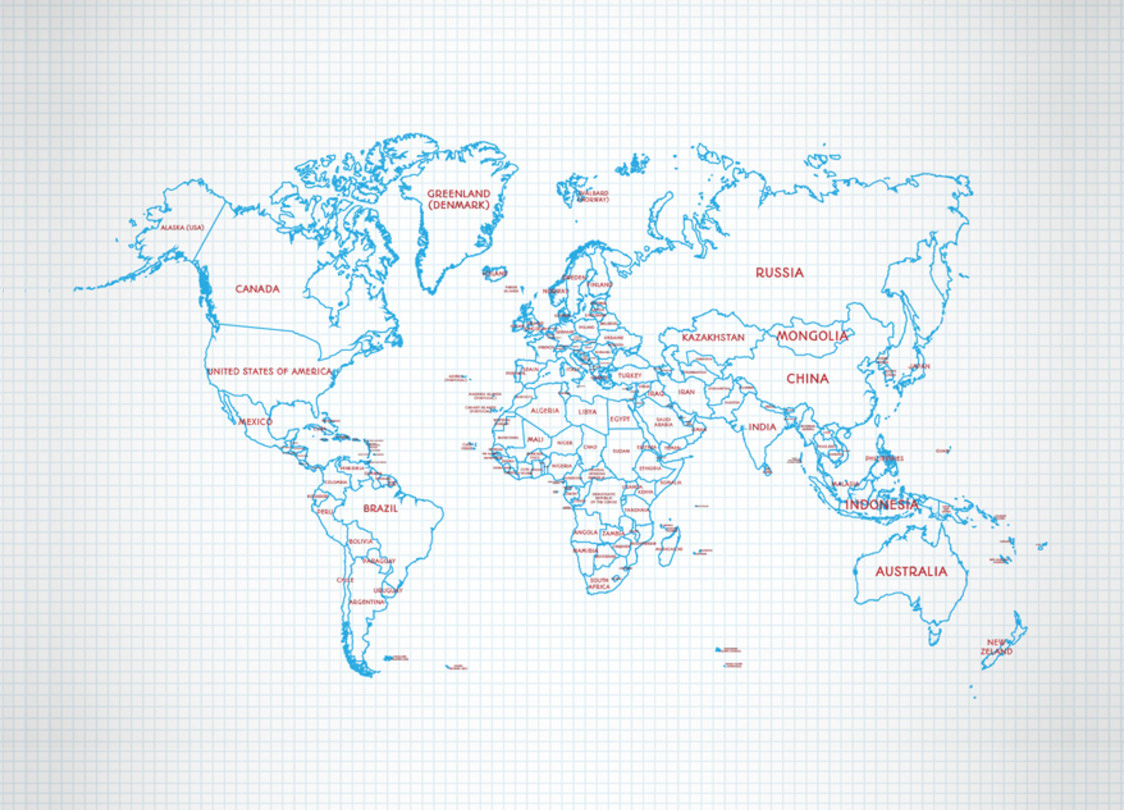
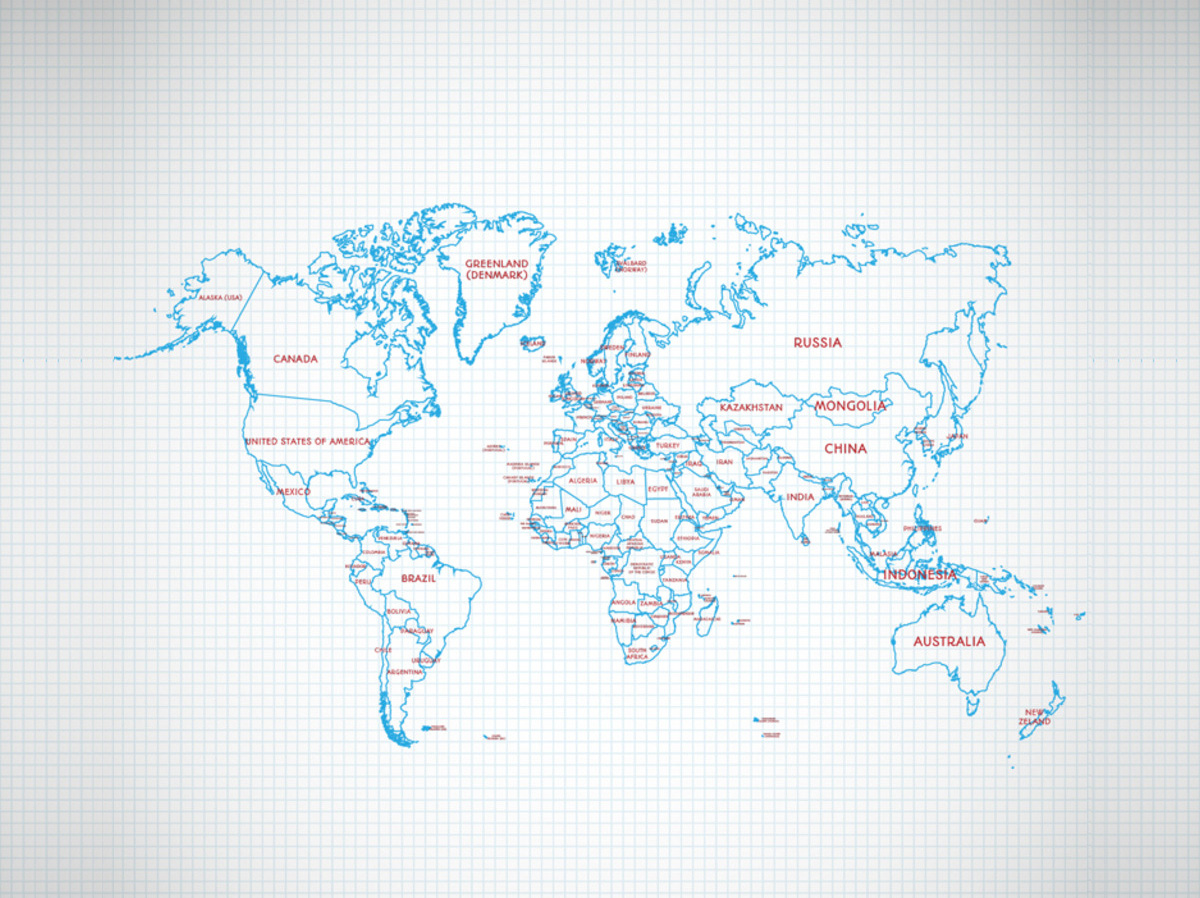
no message

diff --git a/packages/demo/src/stories/pad/GridContentLayout.js b/packages/demo/src/stories/pad/GridContentLayout.js
@@ -1,10 +1,29 @@
 import React from 'react';
 import { Pad, GridContent } from 'react-pannable';
+import TextField from '../../ui/field/TextField';
 import SvgPhone from './SvgPhone';
 import './Pad.css';
 
 export default class GridContentLayout extends React.Component {
+  state = {
+    itemWidth: 100,
+    itemHeight: 100,
+  };
+  handleInputChange = evt => {
+    const node = evt.target;
+    const value = parseInt(node.value, 10);
+
+    if (isNaN(value)) {
+      return;
+    }
+
+    this.setState({
+      [node.name]: value,
+    });
+  };
   render() {
+    const { itemWidth, itemHeight } = this.state;
+
     return (
       <React.Fragment>
         <div className="pad-main">
@@ -27,12 +46,28 @@ export default class GridContentLayout extends React.Component {
                         pad.gridContent = ref;
                       }}
                       width={346}
-                      itemWidth={100}
-                      itemHeight={100}
+                      itemWidth={itemWidth}
+                      itemHeight={itemHeight}
                       itemCount={100}
-                      renderItem={({ rowIndex, columnIndex }) => (
-                        <div>{rowIndex + '-' + columnIndex}</div>
-                      )}
+                      renderItem={({ itemIndex, rowIndex, columnIndex }) => {
+                        let backgroundColor =
+                          itemIndex % 2 ? '#defdff' : '#cbf1ff';
+
+                        return (
+                          <div
+                            style={{
+                              display: 'flex',
+                              alignItems: 'center',
+                              justifyContent: 'center',
+                              height: '100%',
+                              backgroundColor,
+                              color: '#75d3ec',
+                            }}
+                          >
+                            {rowIndex + '-' + columnIndex}
+                          </div>
+                        );
+                      }}
                       visibleRect={{
                         x: -cOffset.x,
                         y: -cOffset.y,
@@ -45,6 +80,20 @@ export default class GridContentLayout extends React.Component {
                 }}
               </Pad>
             </div>
+          </div>
+          <div className="pad-optbar">
+            <TextField
+              name="itemWidth"
+              defaultValue={itemWidth}
+              placeholder="integer"
+              onChange={this.handleInputChange}
+            />
+            <TextField
+              name="itemHeight"
+              defaultValue={itemHeight}
+              placeholder="integer"
+              onChange={this.handleInputChange}
+            />
           </div>
         </div>
       </React.Fragment>

diff --git a/packages/demo/src/stories/pad/LocatingContentArea.js b/packages/demo/src/stories/pad/LocatingContentArea.js
@@ -35,15 +35,15 @@ class LocatingContentArea extends Component {
       align.x = scrollAlignX;
     }
     if (
-      scrollAlignX === 'start' ||
-      scrollAlignX === 'center' ||
-      scrollAlignX === 'end'
+      scrollAlignY === 'start' ||
+      scrollAlignY === 'center' ||
+      scrollAlignY === 'end'
     ) {
       align.y = scrollAlignY;
     }
-
+    console.log(align);
     this.padRef.current.scrollToRect({
-      rect: { x: 748, y: 325, width: 120, height: 120 },
+      rect: { x: 854, y: 422, width: 120, height: 120 },
       align,
       animated: true,
     });
@@ -73,16 +73,16 @@ class LocatingContentArea extends Component {
               ref={this.padRef}
               width={346}
               height={552}
-              contentWidth={1124}
-              contentHeight={810}
+              contentWidth={1300}
+              contentHeight={973}
             >
               <React.Fragment>
-                <img src={map} />
+                <img src={map} width={1300} height={973} />
                 <div
                   style={{
                     position: 'absolute',
-                    top: '325px',
-                    left: '748px',
+                    top: '422px',
+                    left: '854px',
                     width: '120px',
                     height: '120px',
                     borderRadius: '60px',

diff --git a/packages/demo/src/ui/field/RadioField.js b/packages/demo/src/ui/field/RadioField.js
@@ -9,7 +9,7 @@ class RadioField extends Component {
       <div className="radiofield-item">
         <div className="radiofield-label">{name}</div>
         {options.map(({ title, value, checked }) => (
-          <label className="radiofield-radio">
+          <label className="radiofield-radio" key={value}>
             <input
               type="radio"
               name={name}
